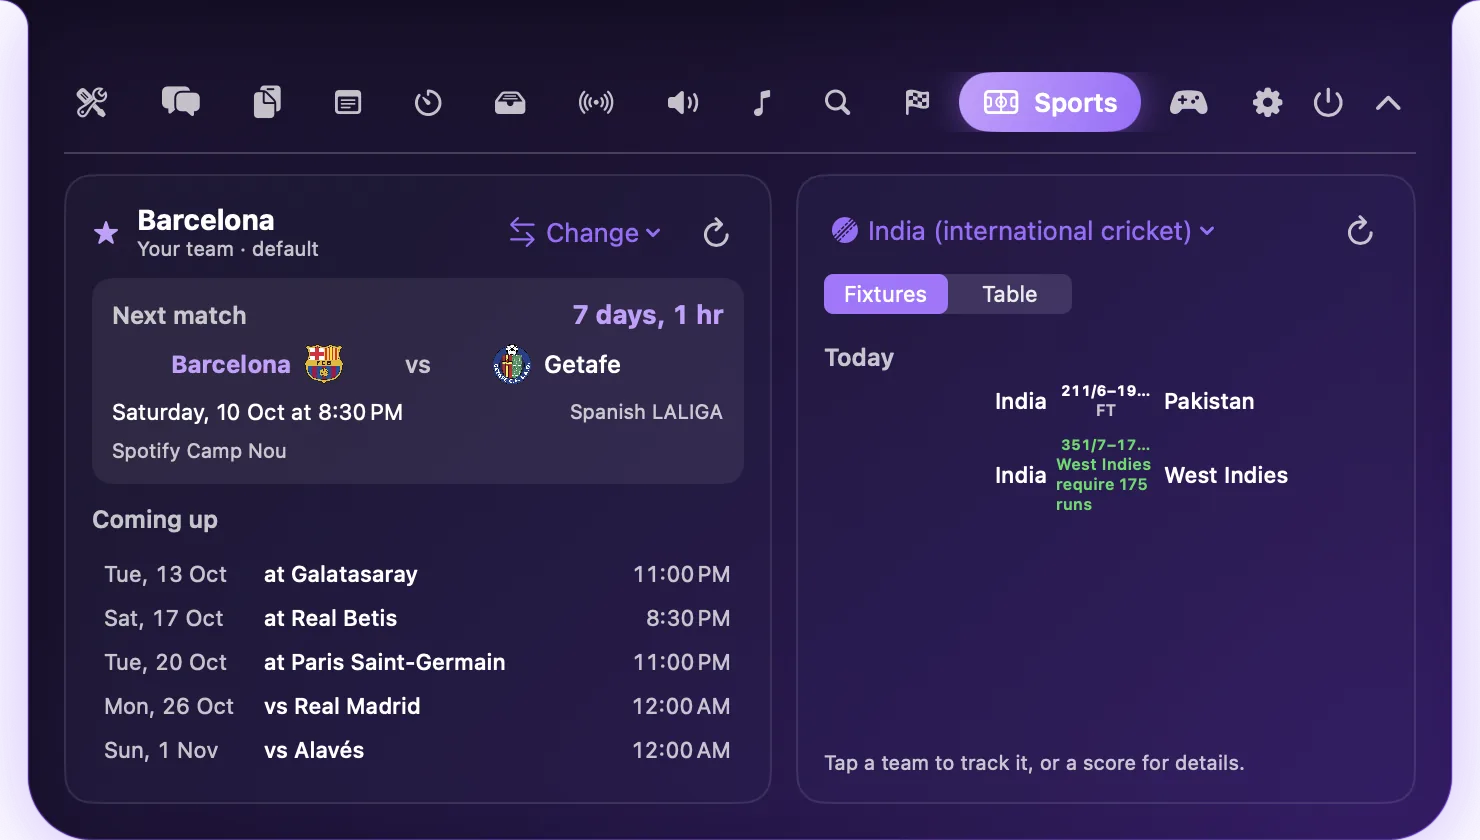
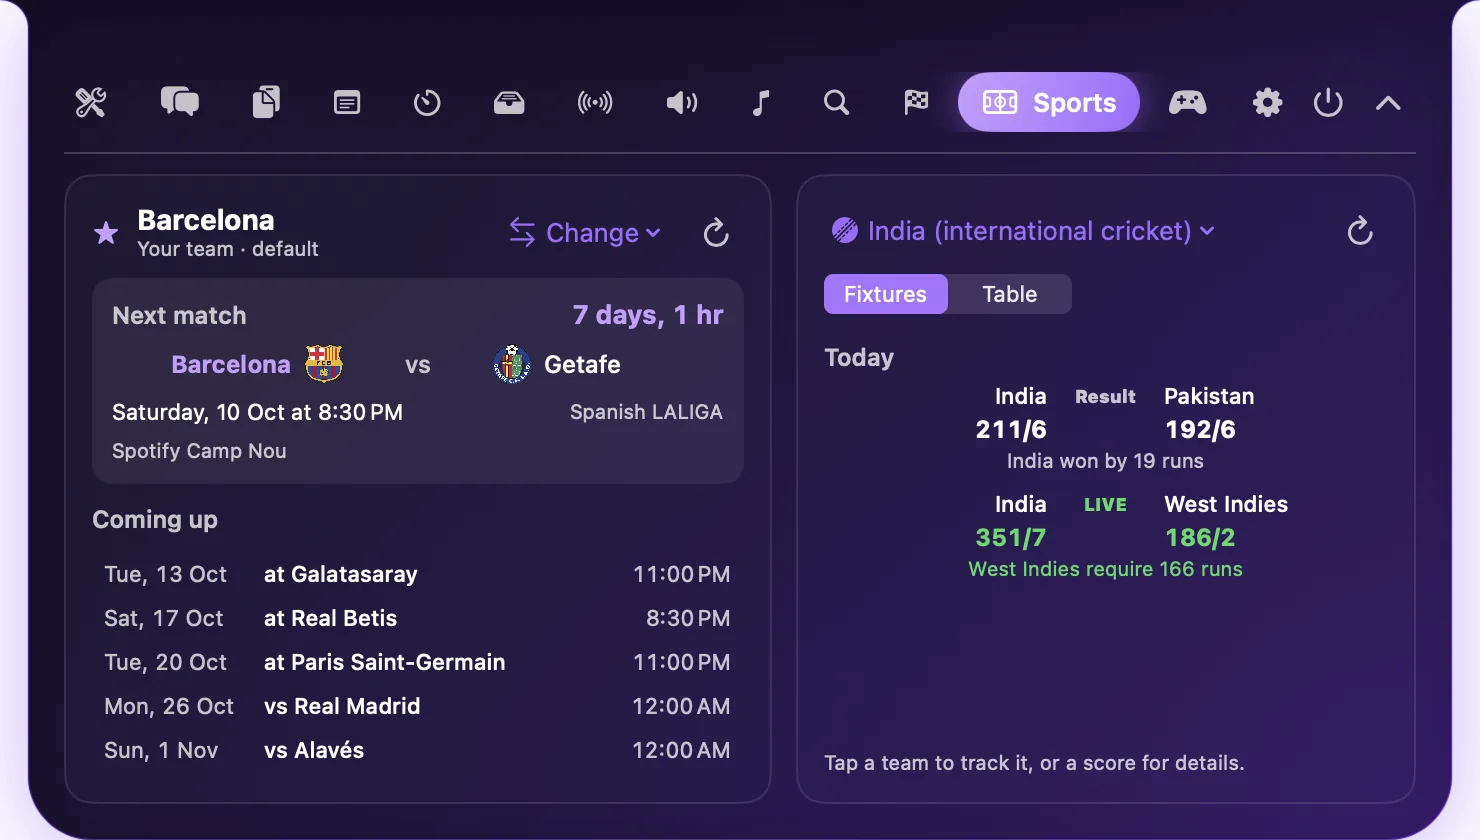
Site 1.15.3 + new cricket screenshot

diff --git a/index.html b/index.html
@@ -768,7 +768,7 @@ nav .links a.donate{color:var(--p3)}
 <section id="download"><div class="wrap">
   <div class="install dl reveal">
     <span class="eyebrow">Download</span>
-    <p class="ver" id="dlVer">Latest version · <b>Notch apple 1.15.2</b></p>
+    <p class="ver" id="dlVer">Latest version · <b>Notch apple 1.15.3</b></p>
     <div class="big">Download for <span class="grad">macOS</span></div>
     <div class="cta">
       <a class="btn" id="dlBtn" href="https://github.com/AdityaJainDXB/NotchApples/releases/latest"><svg aria-hidden="true"><use href="#dl"/></svg> <span>Download for macOS</span></a>
@@ -844,7 +844,7 @@ brew install --cask notch-apple</code></pre>
     <div><h4>Project</h4><ul><li><a href="https://github.com/AdityaJainDXB/NotchApples" target="_blank" rel="noopener">GitHub</a></li><li><a href="https://github.com/AdityaJainDXB/NotchApples#readme" target="_blank" rel="noopener">Documentation</a></li><li><a href="https://github.com/AdityaJainDXB/NotchApples/releases" target="_blank" rel="noopener">Releases</a></li><li><a href="https://github.com/AdityaJainDXB/NotchApples/issues" target="_blank" rel="noopener">Report an issue</a></li></ul></div>
     <div><h4>About</h4><ul><li><a href="#donate">Donate 💜</a></li><li><a href="#privacy">Privacy</a></li><li><a href="https://github.com/AdityaJainDXB/NotchApples/blob/main/LICENSE" target="_blank" rel="noopener">MIT License</a></li></ul></div>
   </div>
-  <div class="footbar"><span id="footVer">Notch apple 1.15.2</span><span>Made with 💜 by a high school developer</span></div>
+  <div class="footbar"><span id="footVer">Notch apple 1.15.3</span><span>Made with 💜 by a high school developer</span></div>
 </div></footer>
 
 <section class="the-end" aria-label="End of page"><div class="wrap">
@@ -985,6 +985,7 @@ function qr(){if(window.QRCode)new QRCode($('#donateQr'),{text:'litecoin:'+$('#l
 
 // What's New, newest first; older releases folded away.
 const REL=[
+ ['1.15.3','3 October 2026','Clearer cricket scores',['Each side\'s score under its name, LIVE or Result between them, and the match status on its own line'],'sports-cricket'],
  ['1.15.2','3 October 2026','Windows, charts and a full view',['Capture a single window, even if others overlap it','Charts and tables are recognised, with Explain, Summarize and Extract suggested','Open full view: a resizable window for long answers','First-run AI setup with Test connection','AI temperature, and System, Light or Dark for the Settings window']],
  ['1.15.1','3 October 2026','Match day, cricket and games',['Sports match alerts: 30 minutes before kick-off, plus a flash on goals and at full time','League tables, and match details with goalscorers, cards and lineups','National teams, India cricket and the IPL','Notch Games: 2048, Snake and a reaction test','Fixed: an old Update available notification could stay after updating'],'sports-detail'],
  ['1.15.0','3 October 2026','See it, capture it, understand it',['Capture anything with ⌃⌥S: a region on the display under the pointer (Retina-sharp), the whole display or every display','Paste or drop an image or PDF, or use copied or selected text','One-click modes: Solve, Explain, Explain simply, Answer only, Hint, Summarize, Translate, Extract text, Rewrite, Code, Ask','Streaming answers with Stop, Retry, Edit, Copy and export; follow-ups remember the image','Readable maths, code blocks and tables; local, searchable history with images','Test connection, a vision badge and a Privacy summary in Settings; F1 favourite team'],'ai-result'],
